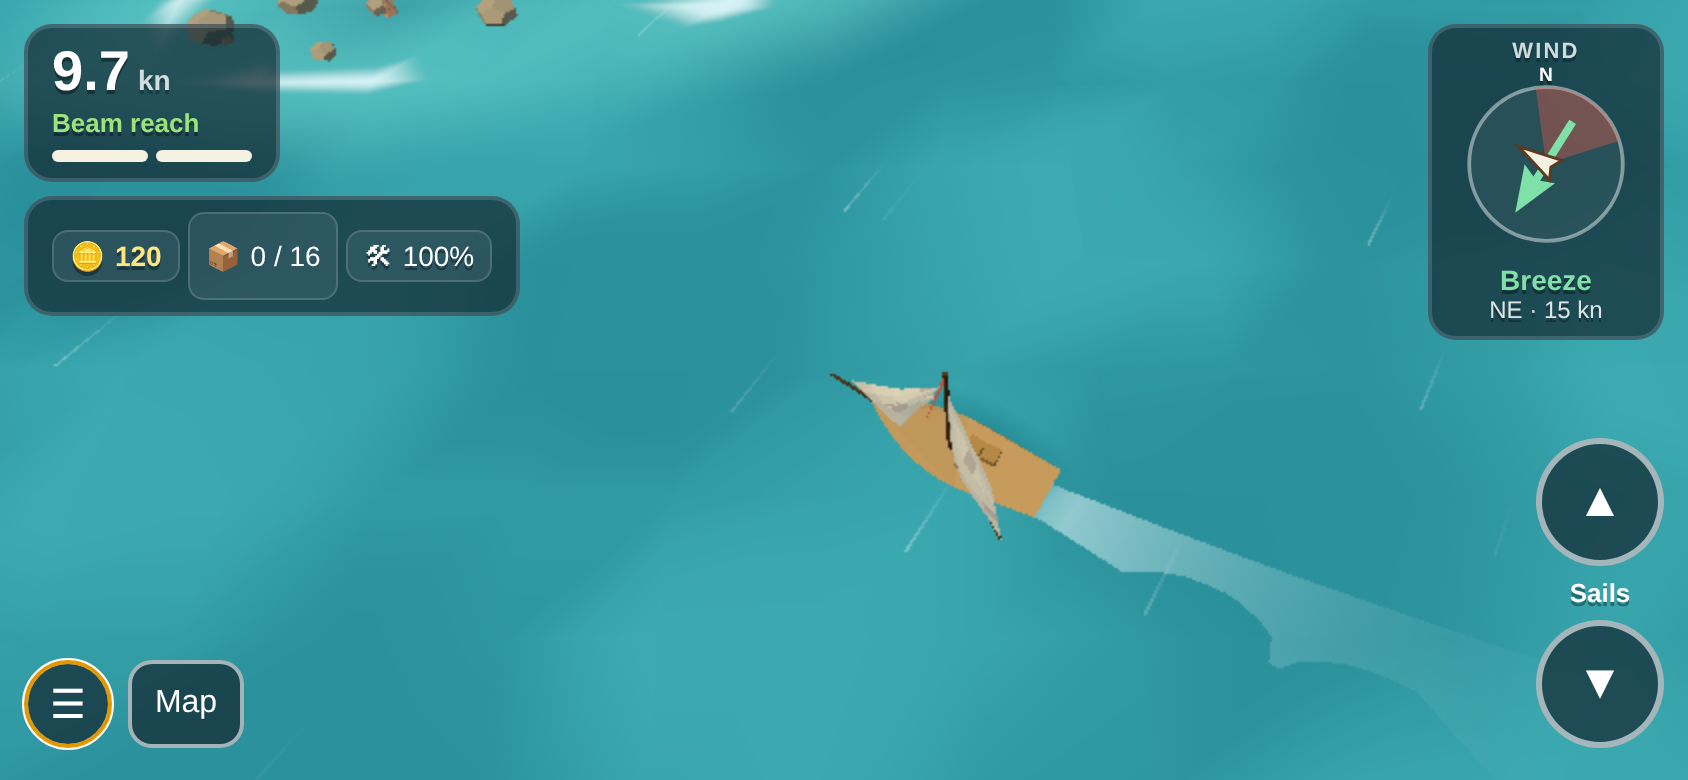
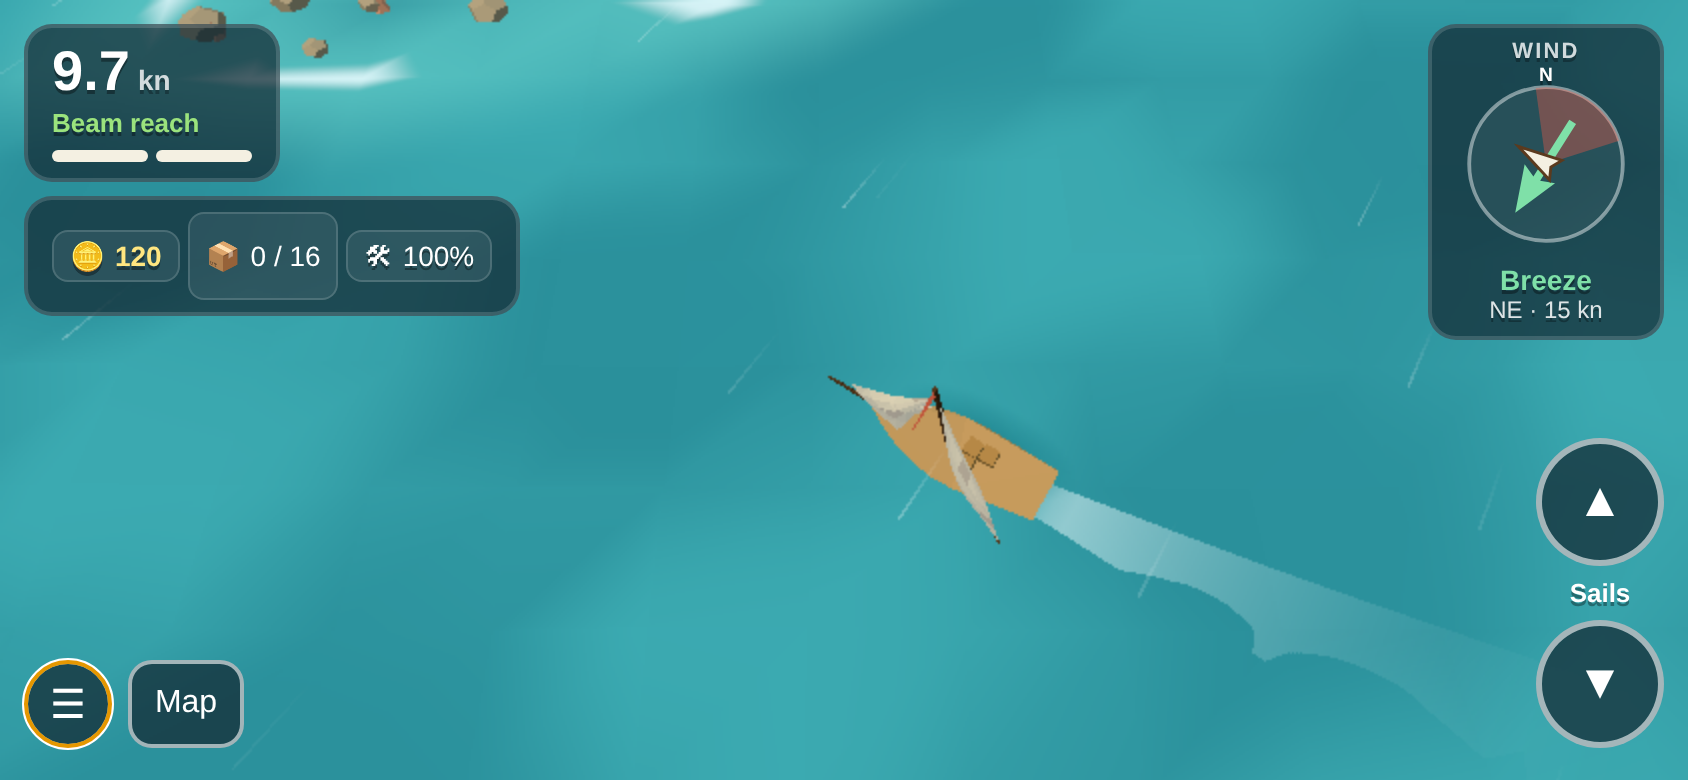
Heel 1.3x stronger so the lean reads from the high camera (ADR 0044)
Claude-Session: https://claude.ai/code/session_018AN14FbfxhNiDcdxU5dfwC

diff --git a/src/render/heel.ts b/src/render/heel.ts
@@ -6,10 +6,11 @@ import { DEG, clamp } from '../sim/math';
  * changes the simulation, so speed and controls are the same with or without it.
  */
 
-/** Heel of a stock sloop with full sails on a beam reach in the maps' 14 kn breeze. */
-export const BASE_HEEL = 11 * DEG;
+/** Heel of a stock sloop with full sails on a beam reach in the maps' 14 kn breeze: about 1.3× a real
+ * small sloop, so the lean still reads from the high camera (Guillaume, 2026-10-20). */
+export const BASE_HEEL = 14.3 * DEG;
 /** No hull ever leans past this, however strong the wind. */
-export const MAX_HEEL = 18 * DEG;
+export const MAX_HEEL = 23 * DEG;
 /** Wind speed that gives BASE_HEEL. */
 const REFERENCE_KN = 14;
 

diff --git a/tests/heel.test.ts b/tests/heel.test.ts
@@ -36,7 +36,7 @@ const beam = (over: Partial<HeelInput> = {}): HeelInput => ({
 });
 
 describe('visual heel (decision 0044)', () => {
-  it('leans a stock sloop about 11° on a beam reach in the usual breeze', () => {
+  it('leans a stock sloop about 14° on a beam reach in the usual breeze', () => {
     expect(targetHeel(beam())).toBeCloseTo(BASE_HEEL, 5);
   });
 

diff --git a/docs/decisions/0044-visual-heeling.md b/docs/decisions/0044-visual-heeling.md
@@ -9,7 +9,7 @@
 - **Purely visual.** `src/render/heel.ts` turns the wind the boat feels into a roll of the boat model (`BoatPose.heel`). The simulation, speed and controls do not change.
 - **What sets the heel:**
   - Point of sail: none in irons or while the sails flap, the most from a close reach to a beam reach, falling to about an eighth of that dead downwind.
-  - Wind strength: the wind the boat feels, so weather shifts ([0026](0026-slow-weather-shifts.md)), the calm lee of an island and faster flanks and channels ([0027](0027-islands-shape-the-wind.md)) all show. It grows a little faster than the wind (power 1.25): about 11° for a stock sloop on a beam reach in the 14 kn breeze, never past 18°.
+  - Wind strength: the wind the boat feels, so weather shifts ([0026](0026-slow-weather-shifts.md)), the calm lee of an island and faster flanks and channels ([0027](0027-islands-shape-the-wind.md)) all show. It grows a little faster than the wind (power 1.25): about 14° for a stock sloop on a beam reach in the 14 kn breeze, never past 23°. That is 1.3× a realistic heel (a small sloop sails at 10 to 20° in a fresh breeze, heavy cargo ships 5 to 10°): Guillaume asked for it on 2026-10-20 so the lean reads from the high camera.
   - Sail area: reefing stands her up.
   - Gusts: wind above its last 4 seconds' average adds an extra lean, so the boat lurches as a gust arrives and settles after.
   - Ship class: `HEEL_FACTOR` per class, 1 = sloop. Swift line (cutter 1.05, schooner 1.15, clipper 1.05) leans most; warships (ketch 0.85, brig 0.75, frigate 0.65) and haulers (hoy 0.75, fluyt 0.6, indiaman 0.5) stand stiffer, as in [0035](0035-three-ship-lines.md). An unknown class uses 1.
